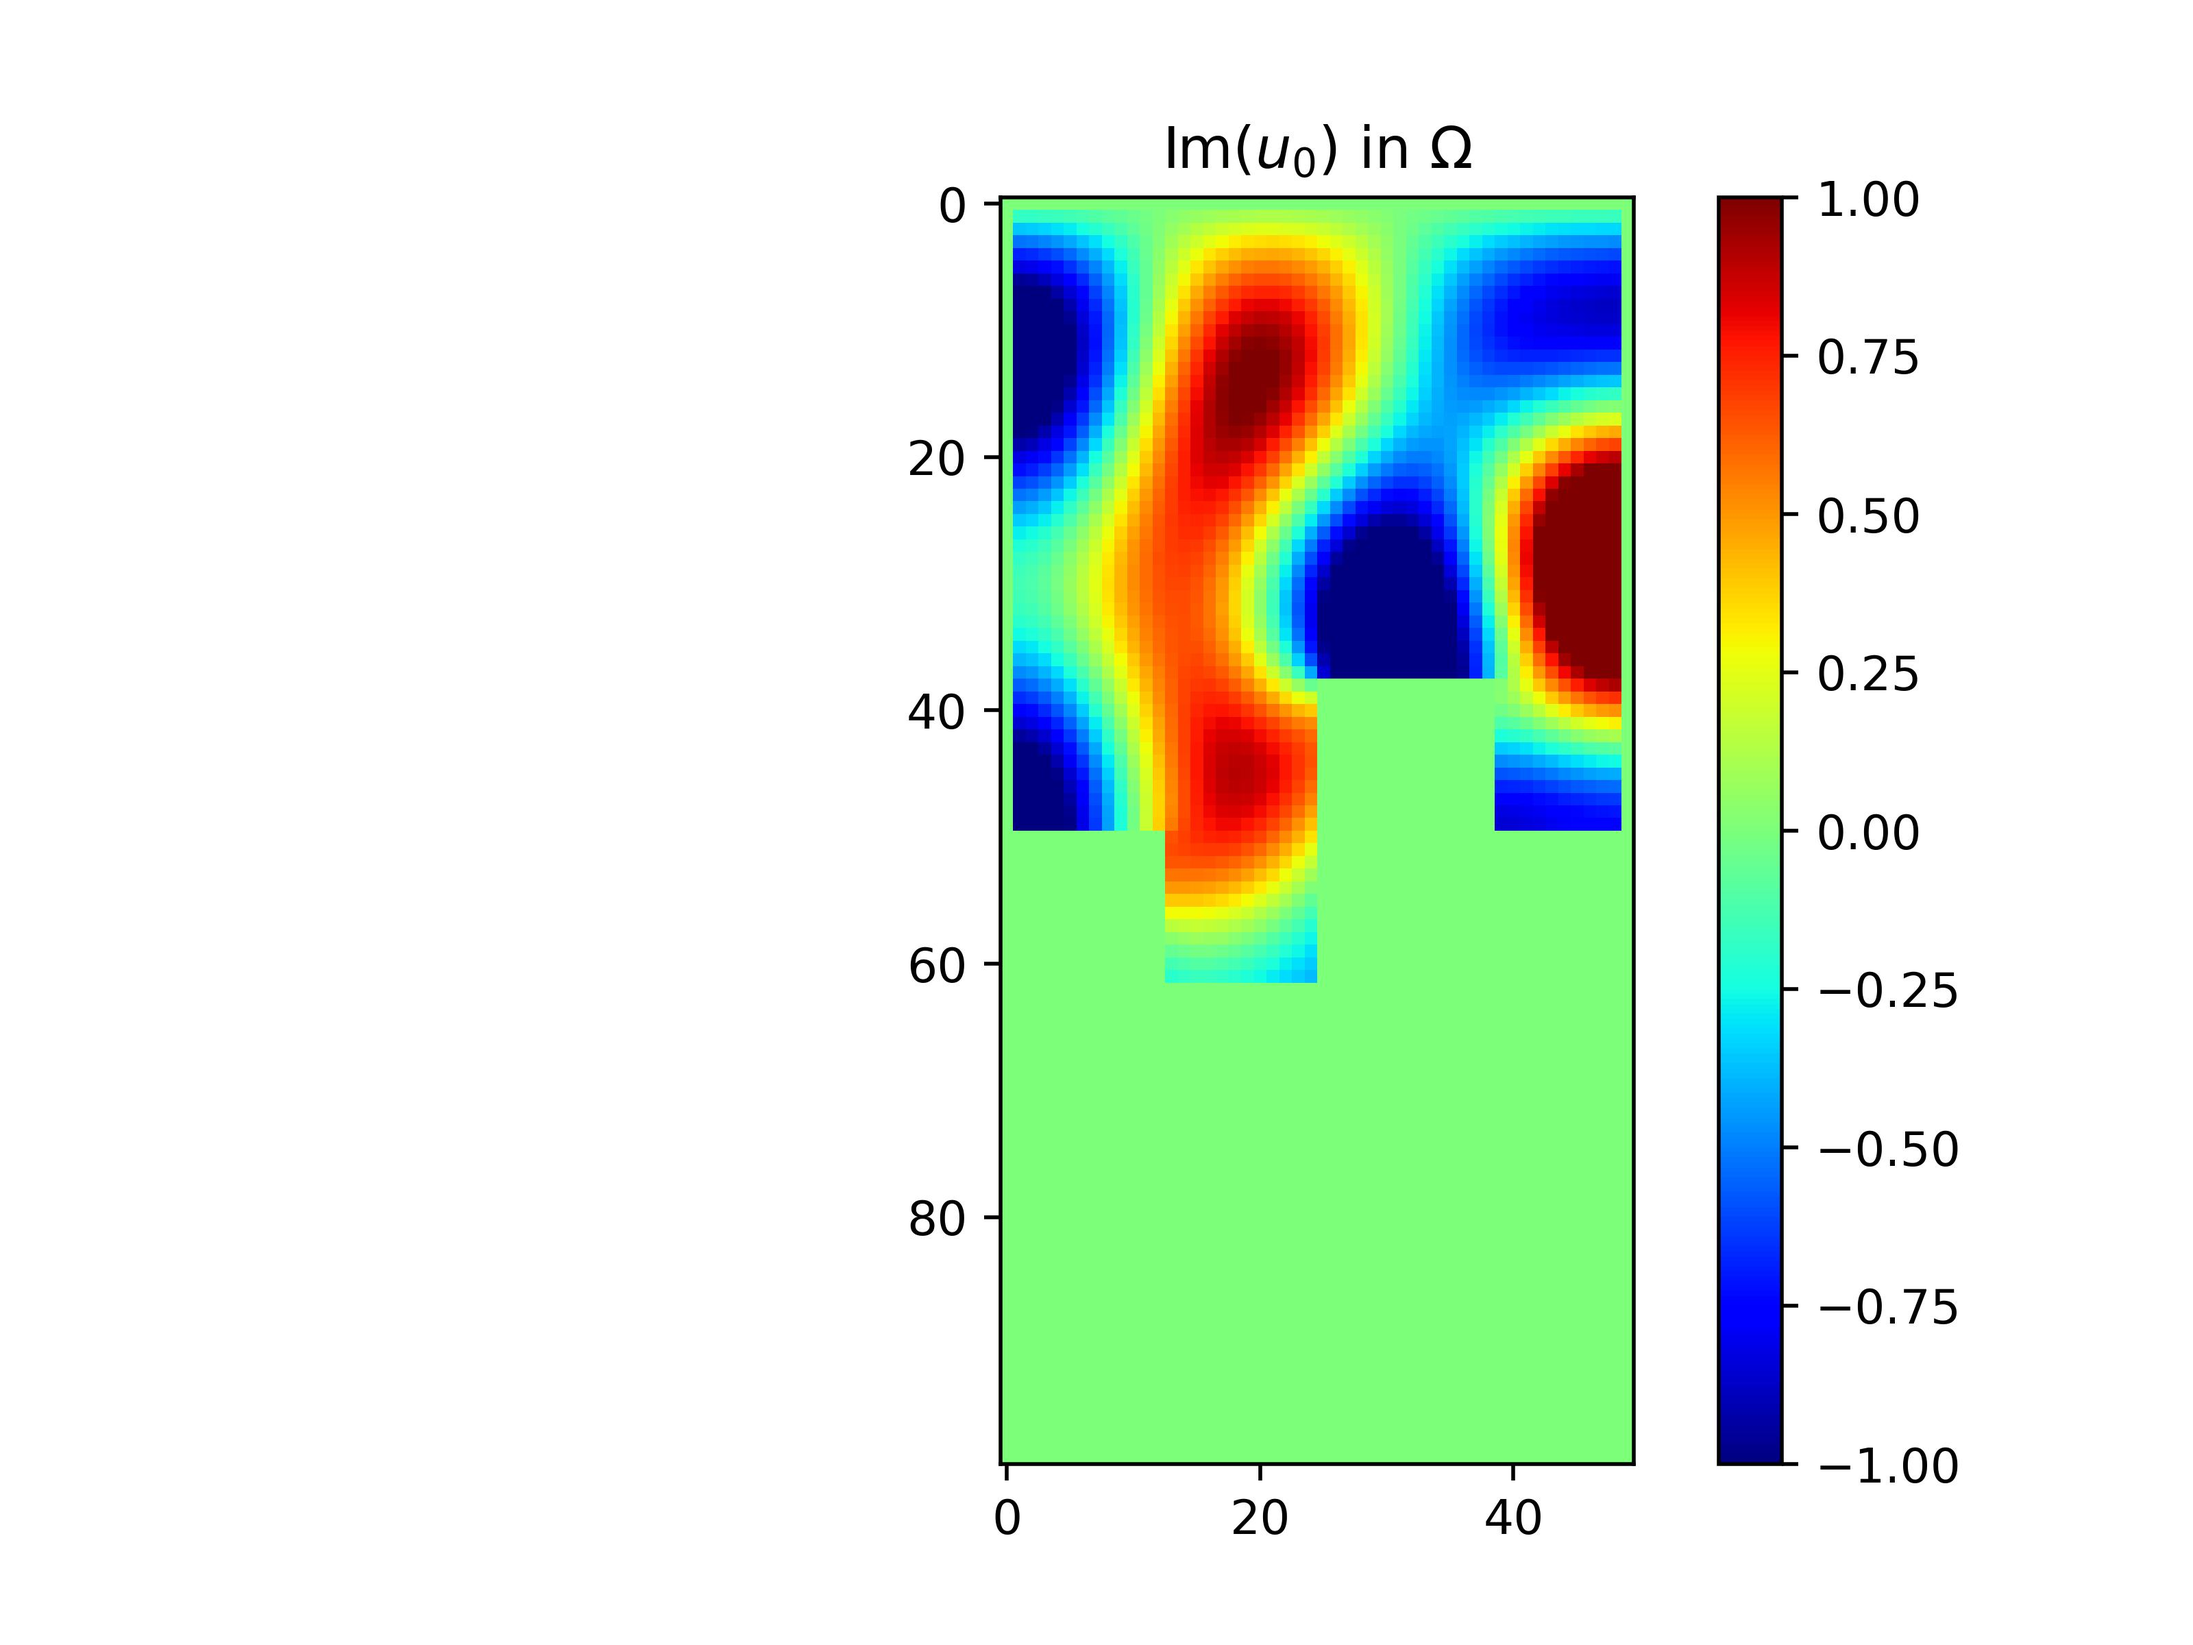
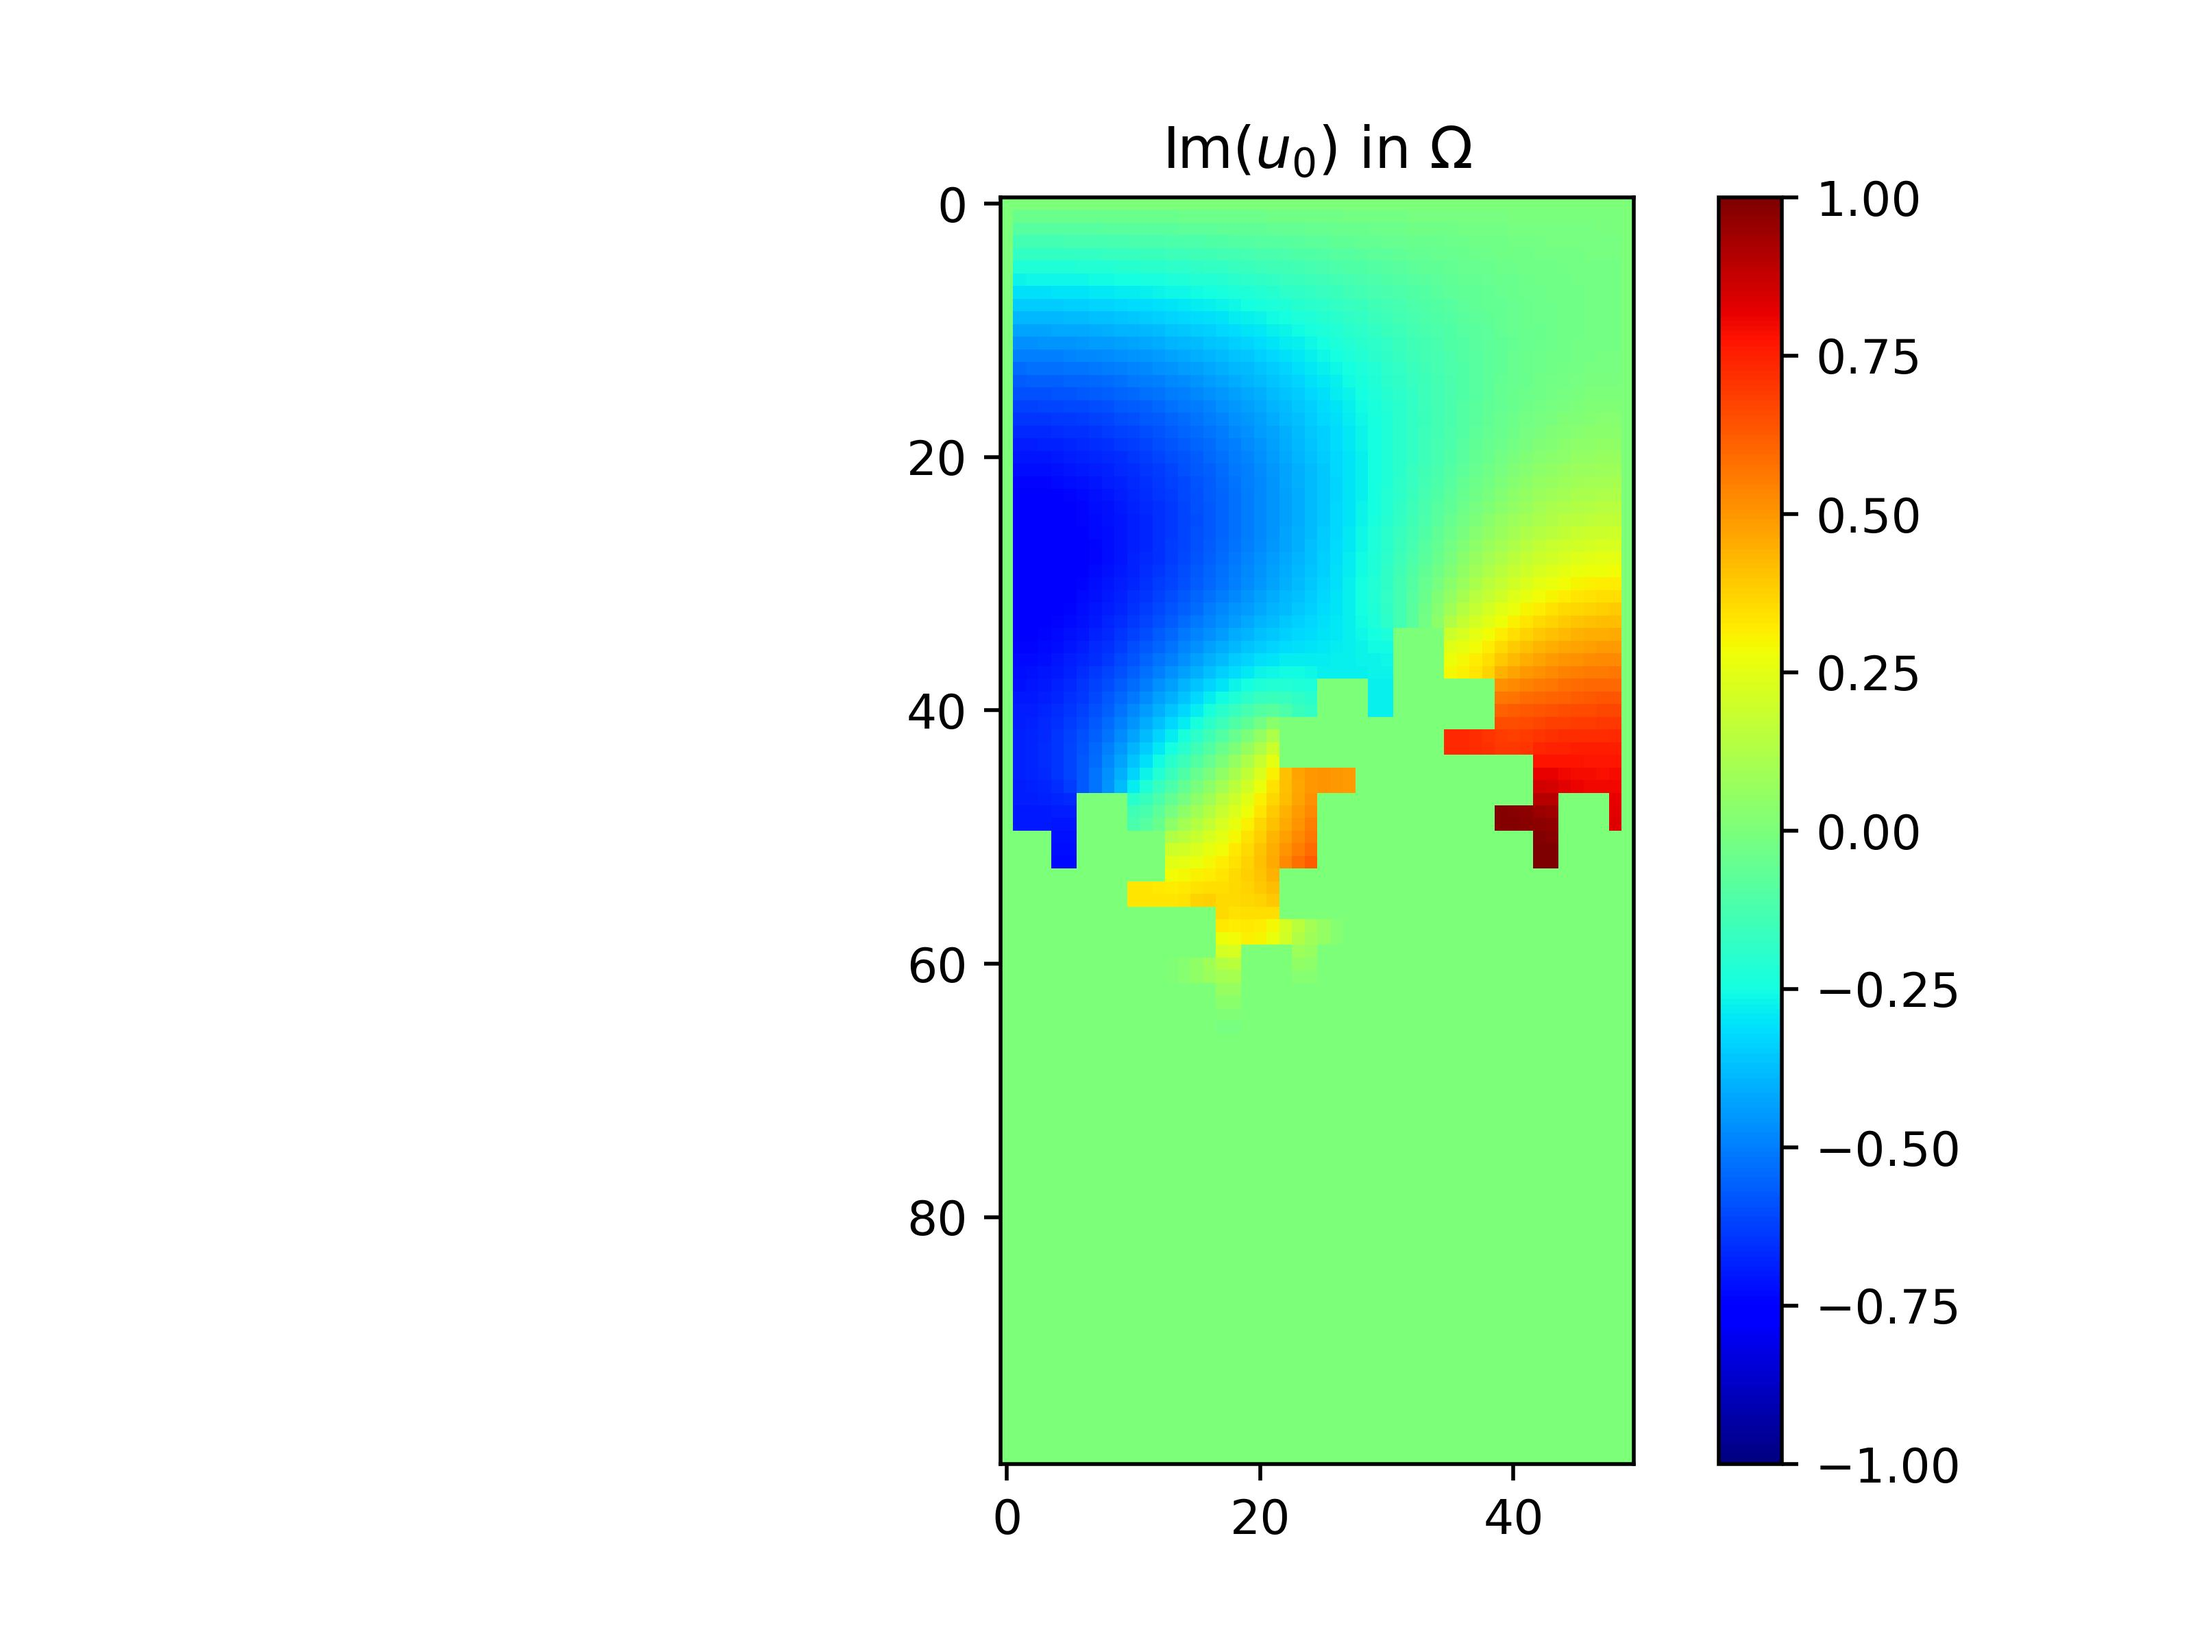
final commit main

Changed region(s): [[0.4375, 0.125, 0.75, 0.625]]

diff --git a/src/main.py b/src/main.py
@@ -15,7 +15,7 @@ import preprocessing
 import processing
 import postprocessing
 import minimization_algo
-# import computeAlpha
+import compute_alpha
 #import solutions
 
 
@@ -105,27 +105,36 @@ def launch_simulation(N: int, level: int, spacestep: float, wavenumber: float, A
 
 if __name__ == '__main__':
     # -- set parameters of the geometry
-    N = 50  # number of point2 along x-axis
+    N = 100  # number of point2 along x-axis
     M = 2 * N  # number of points along y-axis
-    level = 1 # level of the fractal
+    level = 2 # level of the fractal
     spacestep = 1.0 / N  # mesh size
 
+
+
     # -- set parameters of the partial differential equation
-    wavenumber = 10.0                        # fréquence f = 200 environ donc w = 2*pi*f = 1200 et k = w/c avec c = 340m/s
 
-    # V_obj = 0.9
+    frequence = 1000
+    omega = 2*numpy.pi*frequence
+    c = 343 # m/s
+    wavenumber = omega/c                        # fréquence f = 200 environ donc w = 2*pi*f = 1200 et k = w/c avec c = 340m/s
+
+    material = 'Melamine'               # Matériau choisi 
+
+    V_obj = 0.9
     mu = 5
-    Alpha = 2.0 - 8.0 * 1j
-    # Alpha = computeAlpha(...)
+    # Alpha = 2.0 - 8.0 * 1j
+    Alpha = compute_alpha.compute_alpha(omega, material)[0]
+    print("Alpha après calcul", Alpha, "Fréquence", frequence, "Omega", omega, "Nombre d'onde", wavenumber)
+    launch_simulation(N, level, spacestep, wavenumber, Alpha, V_obj, mu)    
 
-    # launch_simulation(N, level, spacestep, wavenumber, Alpha, V_obj, mu)    
 
 
     """
-
-    Permet de tracer l'énergie APRES optimisation en fonction de la densité de matériau. 
-
-    V_obj_list = [0.05*i for i in range(1,19)]
+    1) Tracer l'énergie APRES optimisation en fonction de la densité de matériau. 
+    """
+    """
+   V_obj_list = [0.02*i for i in range(1,50)]
     liste_des_energies = [launch_simulation(N,level,spacestep,wavenumber,Alpha,V_obj, mu)[-1] for V_obj in V_obj_list]
 
 
@@ -133,23 +142,15 @@ if __name__ == '__main__':
     matplotlib.pyplot.plot(V_obj_list[:len(liste_des_energies)], liste_des_energies, marker='o', color='b', linestyle='-', linewidth=2, markersize=6)
 
     matplotlib.pyplot.xlabel("Densité de matériau (entre 0 et 1)", fontsize=12)
-    matplotlib.pyplot.ylabel("Énergie", fontsize=12)
-    matplotlib.pyplot.title("Évolution de l'énergie en fonction de la densité de matériau", fontsize=14)
+    matplotlib.pyplot.ylabel("Énergie minimale (après opti)", fontsize=12)
+    matplotlib.pyplot.title("Évolution de l'énergie après optimisation en fonction de la densité de matériau", fontsize=14)
 
     matplotlib.pyplot.grid(True, linestyle='--', alpha=0.7)
     matplotlib.pyplot.xlim(0, 1)
 
     # Afficher le graphique
-    matplotlib.pyplot.savefig("energie_selon_densité", dpi = 500)
+    matplotlib.pyplot.savefig("energie_min_selon_densité", dpi = 500)
 
-    """
-
-
-    """
-
-
-
-    
     """
 
 

diff --git a/src/compute_alpha.py b/src/compute_alpha.py
@@ -29,12 +29,13 @@ class Memoize:
         return self.memo[args]
 
 
-def compute_alpha(omega, material_properties):
+def compute_alpha(omega, material_name):
     """
     .. warning: $w = 2 \pi f$
     w is called circular frequency
     f is called frequency
     """
+    material_properties = materials[material_name]
     # Use the material properties passed in instead of hardcoded values
     phi = material_properties["phi"]
     gamma_p = material_properties["gamma_p"]
@@ -72,7 +73,7 @@ def compute_alpha(omega, material_properties):
         * ((omega**2) / (c_0**2))
         * (ksi_volume + 1j * a_volume / omega)
     )
-    print(k2_volume)
+    # print(k2_volume)
 
     # parameters of the objective function
     A = 1.0
@@ -408,3 +409,38 @@ def run():
 if __name__ == "__main__":
     run()
     print("End.")
+
+materials = {
+        "Wood": {
+            "phi": 0.5,
+            "gamma_p": 7.0 / 5.0,  # Keeping this constant for all materials
+            "sigma": 12500.0,
+            "rho_0": 600.0,
+            "alpha_h": 1.35,
+            "c_0": 360.0,
+        },
+        "Polyester": {
+            "phi": 0.9,
+            "gamma_p": 7.0 / 5.0,
+            "sigma": 20000.0,
+            "rho_0": 40.0,
+            "alpha_h": 1.2,
+            "c_0": 340.0,
+        },
+        "Melamine": {
+            "phi": 0.95,
+            "gamma_p": 7.0 / 5.0,
+            "sigma": 13000.0,
+            "rho_0": 10.0,
+            "alpha_h": 1.3,
+            "c_0": 340.0,
+        },
+        "Wool": {
+            "phi": 0.9,
+            "gamma_p": 7.0 / 5.0,
+            "sigma": 22500.0,
+            "rho_0": 100.0,
+            "alpha_h": 1.4,
+            "c_0": 340.0,
+        },
+    }
